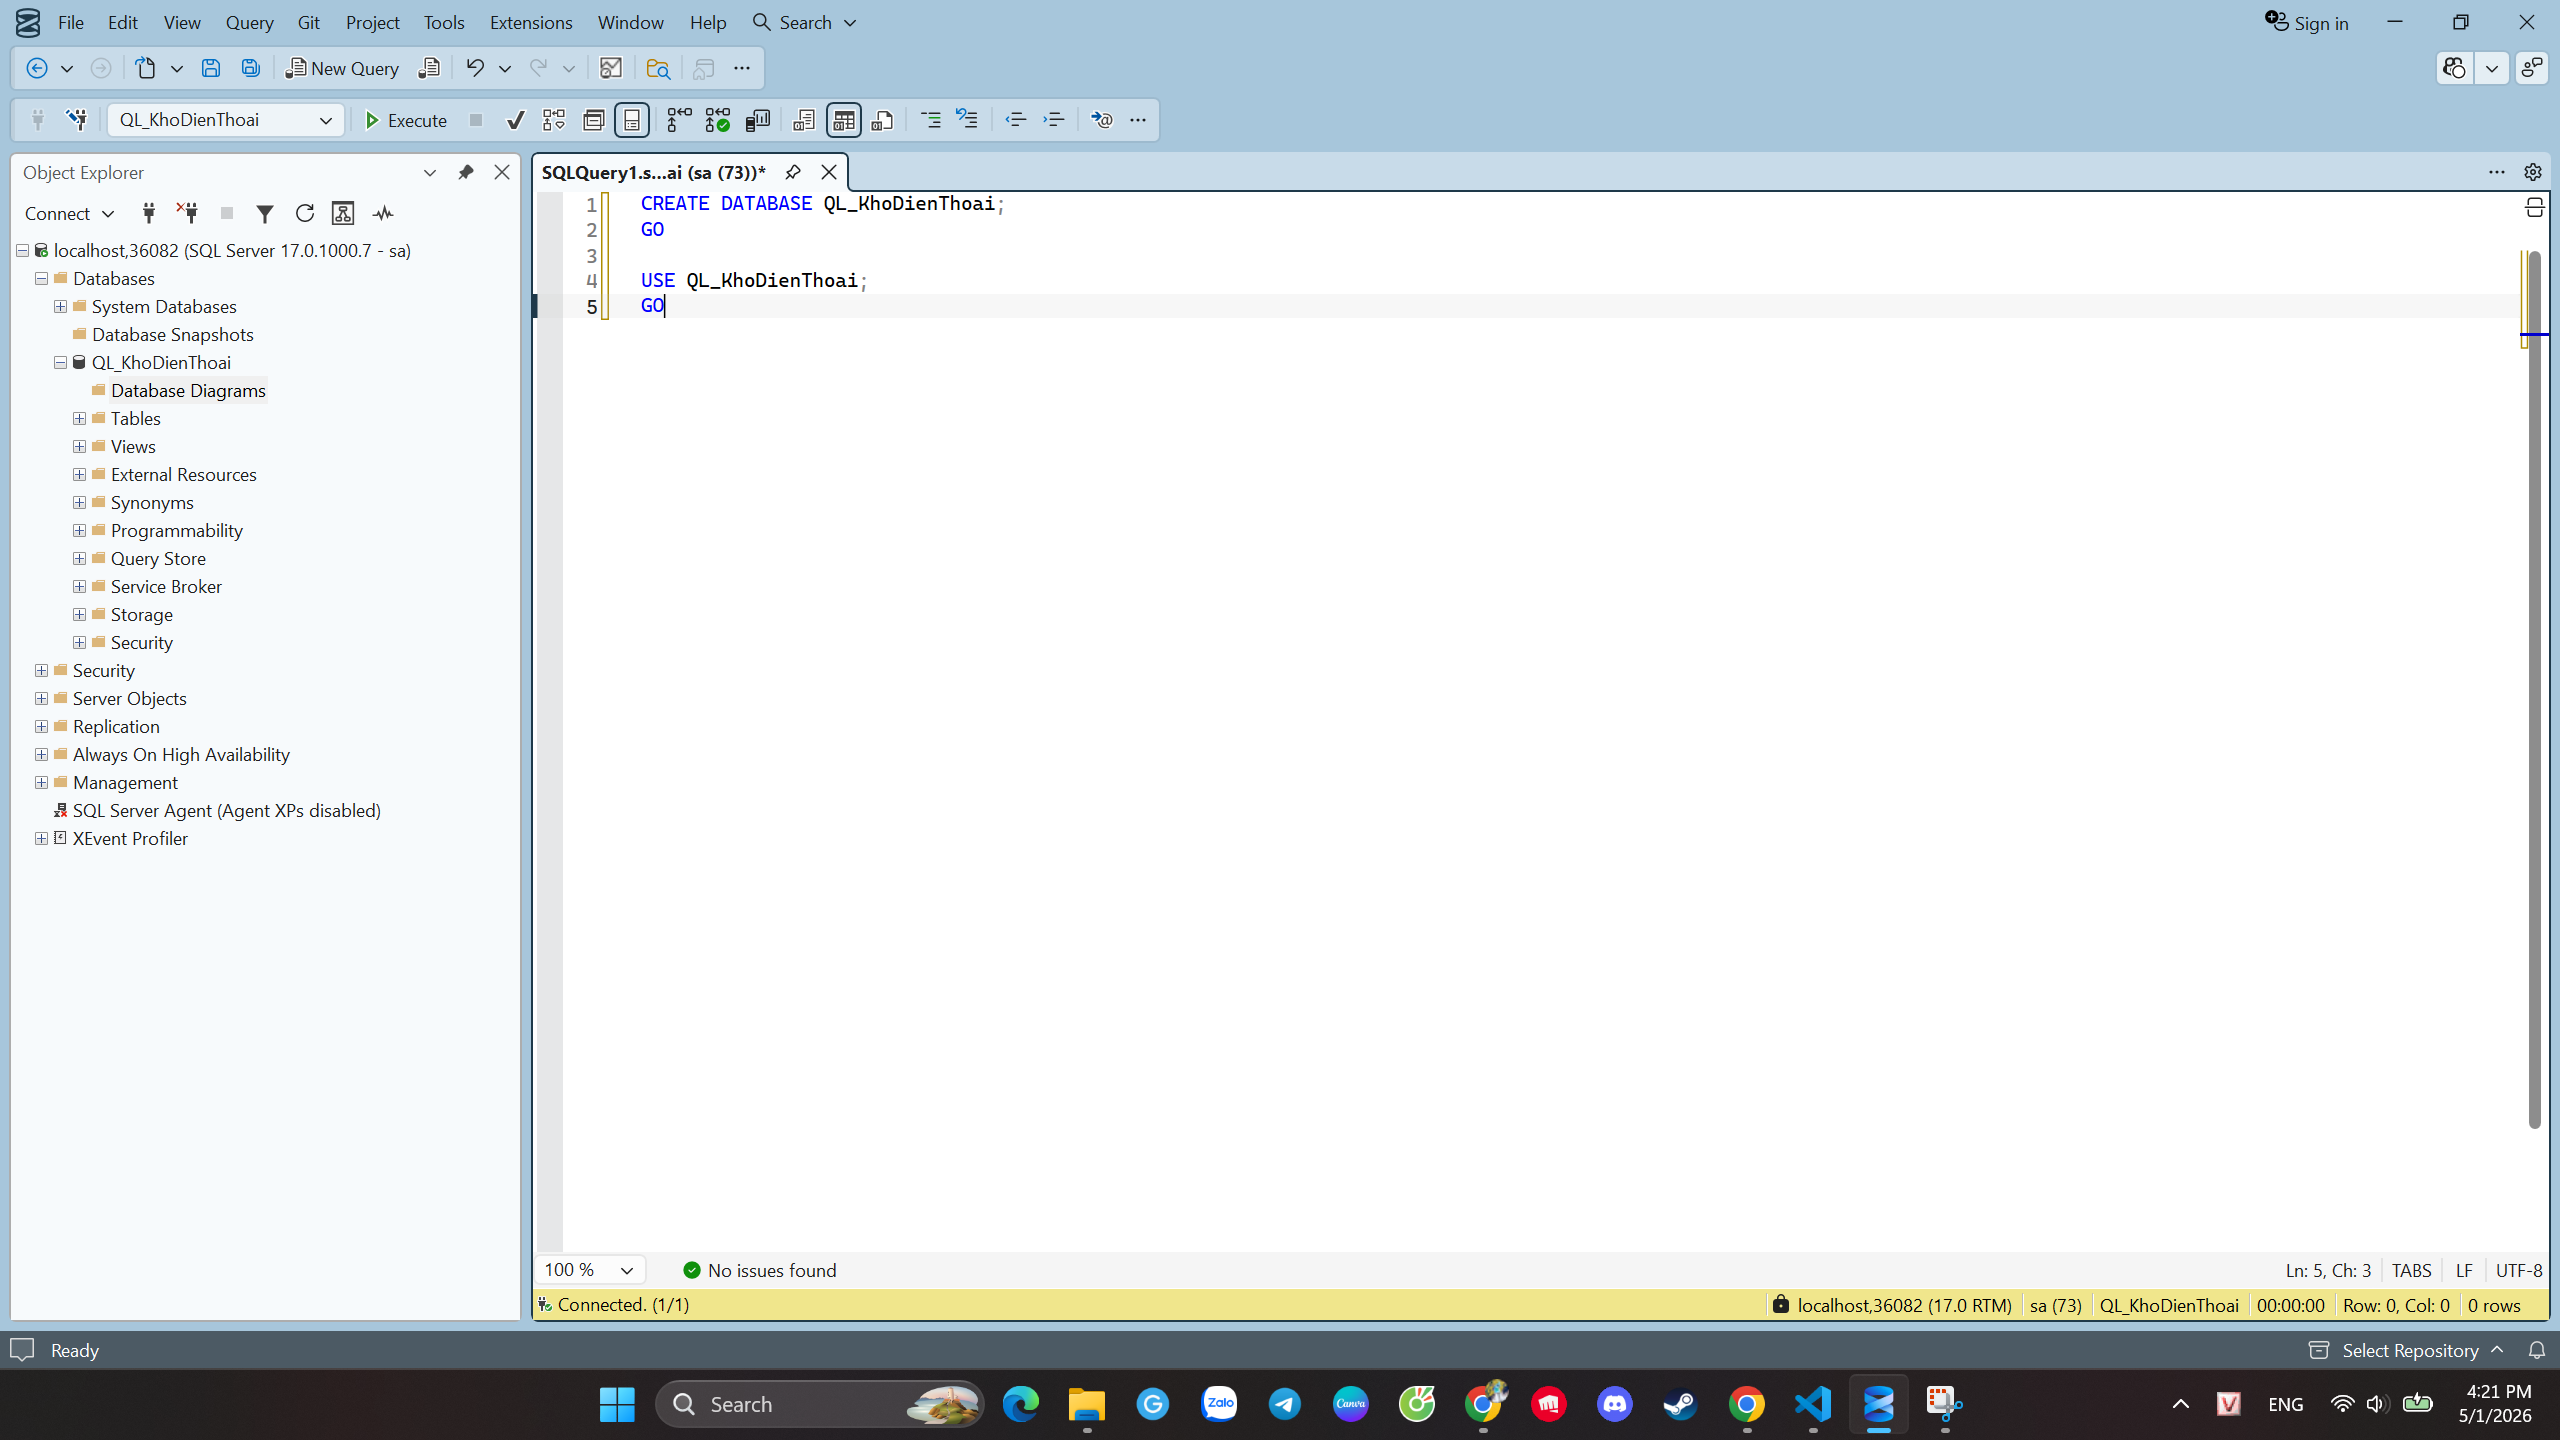
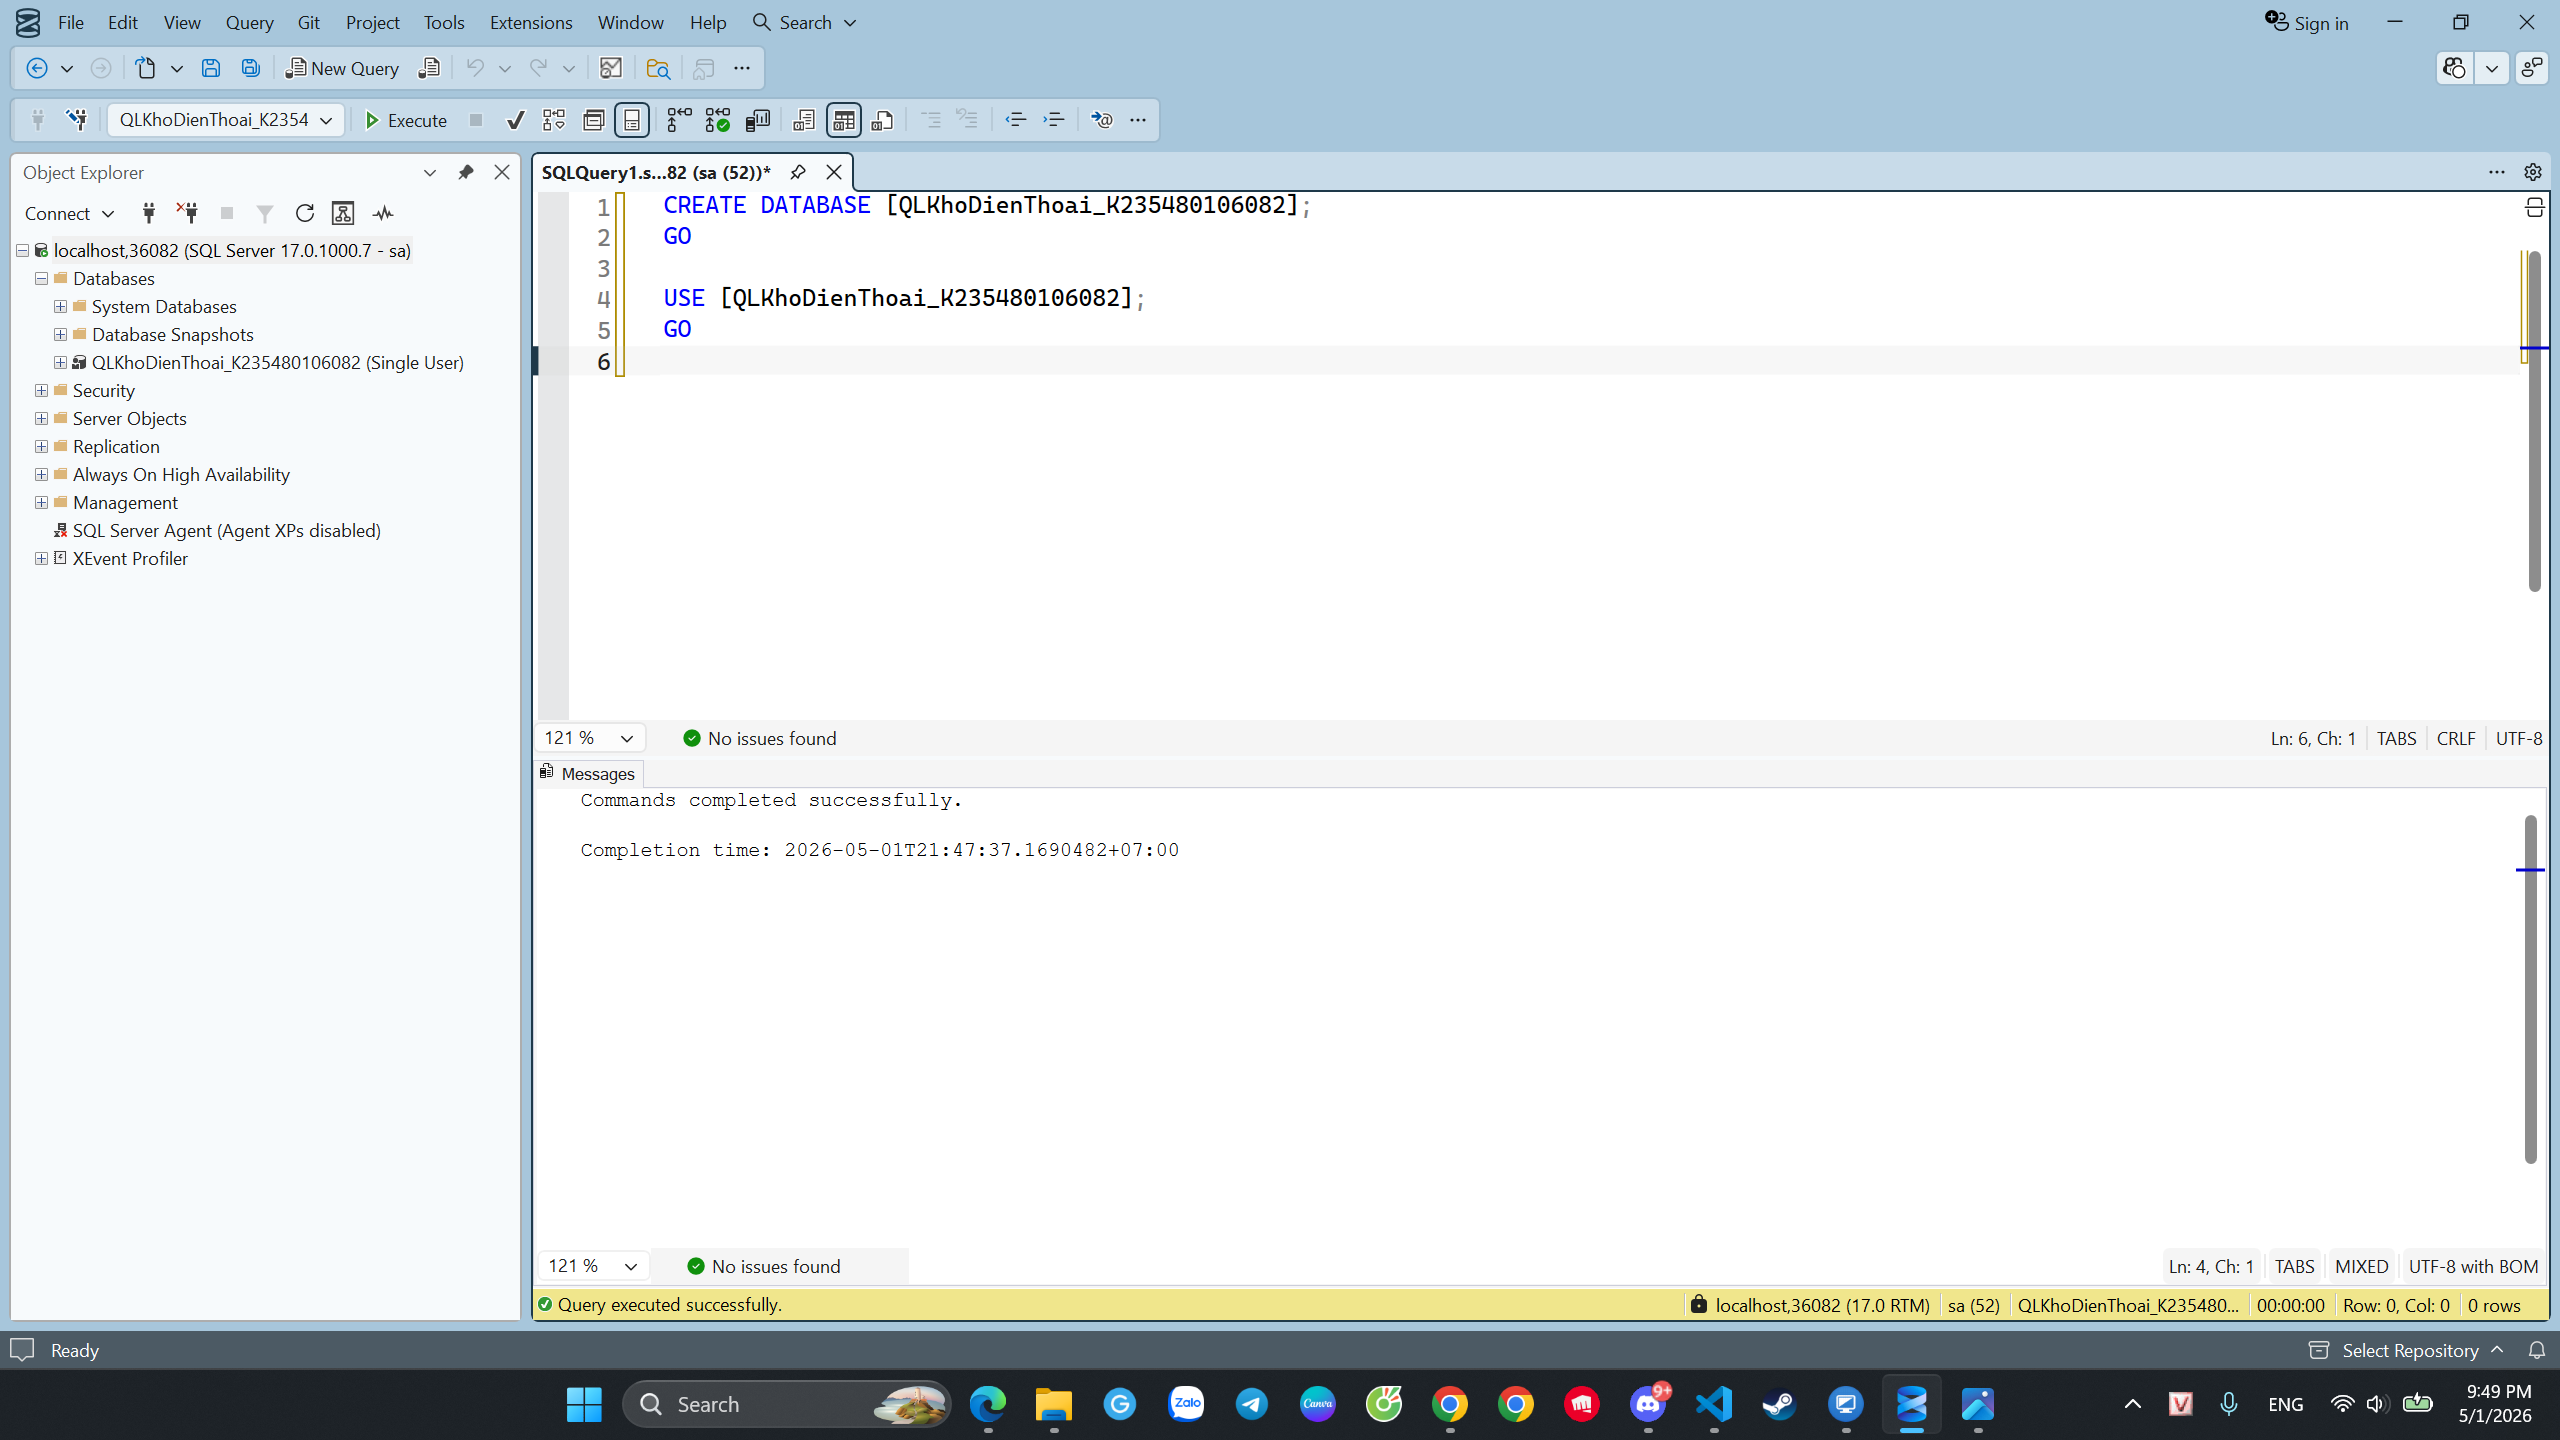
fix

diff --git a/README.md b/README.md
@@ -15,9 +15,9 @@
 - Lệnh SQL: 
 
 ```sql
-CREATE DATABASE QL_KhoDienThoai;
+CREATE DATABASE [QLKhoDienThoai_K235480106082];
 GO
-USE QL_KhoDienThoai;
+USE [QLKhoDienThoai_K235480106082];
 GO
 ```
 
